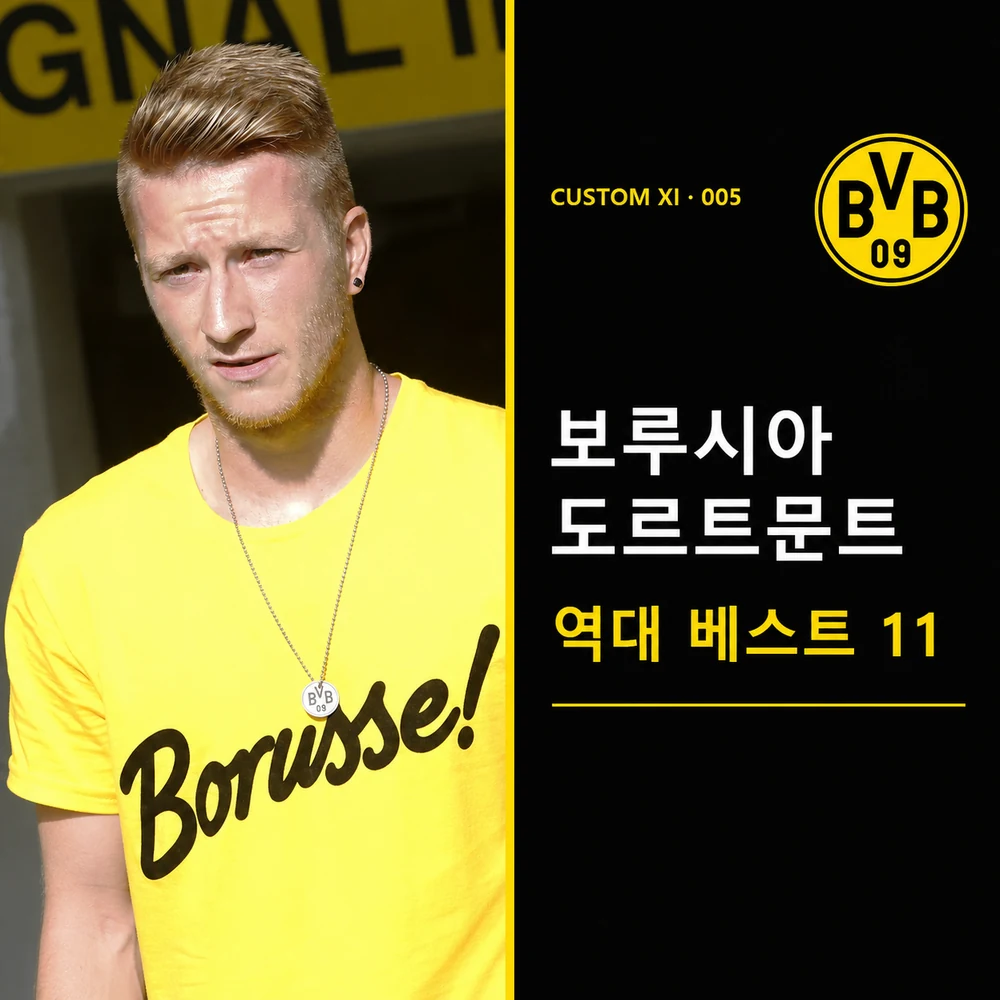
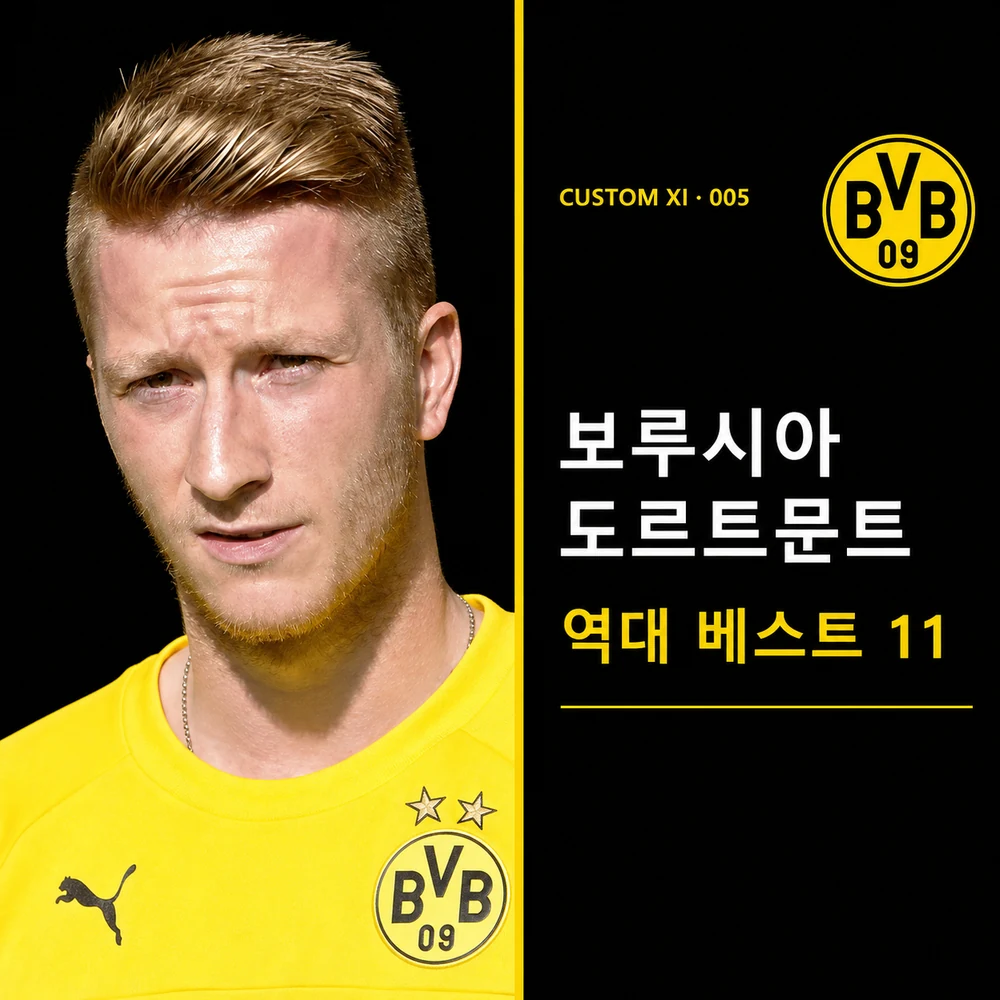
도르트문트 카드 로이스 사진 교체

diff --git a/src/content/articles/borussia-dortmund-all-time-best-xi.md b/src/content/articles/borussia-dortmund-all-time-best-xi.md
@@ -321,6 +321,7 @@ featured: true
 21. <span id="source-21"></span>[BVB: 이탈리아 경험자들의 귀환과 1997년 유럽 제패팀 구성](https://www.bvb.de/de/en/news/news-overview/news.html/eng/News/Overview/A-victory-against-all-the-odds-a-triumph-for-the-ages.html)
 22. <span id="source-22"></span>[BVB: 마르코 로이스의 귀환, 주장 경력과 2019년 독일 올해의 선수](https://www.bvb.de/de/en/news/news-overview/news.html/eng/News/Overview/BVB-and-Reus-do-not-extend-contract.html)
 23. <span id="source-23"></span>[BVB: 1997년 UEFA 챔피언스 리그 결승 선발과 주장 초르크의 시상식](https://www.bvb.de/de/de/der-bvb/die-bvb-historie/historische-momente/bvb-champions-league-1997.html)
+24. [정사각 목록 카드의 2015년 마르코 로이스 사진: Tim Reckmann, CC BY 2.0](https://commons.wikimedia.org/wiki/File:Marco_Reus_%2816204330530%29_%28cropped%29.jpg)
 
 ### 이 글이 만들어진 방식
 
@@ -328,7 +329,9 @@ featured: true
 
 선수별 세로 편집물에는 인물 선정, 사진 탐색, 기록 조사, 원어·별칭 표기, 검정·노랑·금색의 색채 설계, 정보 위계, 프레임과 배경, 수상·우승 내역의 배열이 함께 들어 있다. 표제·포메이션·2군·3군 명단 또한 한 세계를 전제로 설계한 연속 시각물이다. 이 기존 편집물은 모두 박성호(삥이)가 Adobe Photoshop에서 한 장씩 직접 제작했으며, 생성형 AI를 사용하지 않았다. 이번 사이트 개정은 원본을 축소 카드로 분해하지 않고 이미지 속 기록까지 읽을 수 있는 폭으로 보존했다.
 
-사이트용 대표 썸네일 역시 생성형 AI를 쓰지 않았다. Tim Reckmann의 로이스 사진(CC BY-SA 3.0), Marvin Ronsdorf의 경기장 사진(CC0 1.0), 운영자가 제공한 BVB 문장을 박성호(삥이)·삥이FC가 직접 크롭·색보정·합성하고 타이포그래피를 설계했다. CC BY-SA 원본을 바탕으로 만든 썸네일은 같은 CC BY-SA 3.0 조건으로 이용할 수 있으며, 저자·원문·라이선스 표시를 유지해야 한다.
+사이트용 16:9 대표 썸네일은 생성형 AI를 쓰지 않았다. Tim Reckmann의 2014년 로이스 사진(CC BY-SA 3.0), Marvin Ronsdorf의 경기장 사진(CC0 1.0), 운영자가 제공한 BVB 문장을 박성호(삥이)·삥이FC가 직접 크롭·색보정·합성하고 타이포그래피를 설계했다. CC BY-SA 원본을 바탕으로 만든 이 대표 이미지는 같은 CC BY-SA 3.0 조건으로 이용할 수 있으며, 저자·원문·라이선스 표시를 유지해야 한다.
+
+카테고리 목록의 1:1 카드는 Tim Reckmann이 2015년에 촬영한 로이스 사진(CC BY 2.0)을 실제 인물 원본으로 삼아 얼굴과 상반신에 초점을 맞추고, Codex 내장 이미지 생성 편집으로 검정·노랑 정보판과 결합했다. 사진 속 인물을 다른 얼굴로 대체하려는 목적이 아니라 정사각 목록에서 로이스의 얼굴과 도르트문트 유니폼이 선명하게 읽히도록 재구성한 편집물이다. 사진 저자·원문·라이선스와 생성형 편집 사실을 함께 밝힌다.
 
 ### 이미지와 권리에 관한 편집 원칙
 

diff --git a/HANDOFF.md b/HANDOFF.md
@@ -3,6 +3,7 @@
 - 아카이브·검색 결과·홈 상단의 편집 위계는 유지하고, 일반 카테고리 목록과 페이지네이션 목록을 공통 1:1 카드 피드로 통일했다. 모바일 2열, 태블릿 3열, PC 4열이며 정사각 이미지 아래에 카테고리·발행일·두 줄 제목을 둔다.
 - 일반 사진은 기존 `coverImage`를 카드 안에서 자연스럽게 크롭한다. 별도 정사각 편집물이 필요한 글만 선택형 `cardImage`를 사용하므로 상세 글의 대표 이미지와 OG 이미지는 기존 16:9 원본을 그대로 유지한다.
 - 도르트문트와 레버쿠젠은 Codex 내장 이미지 생성 편집으로 기존 합성 썸네일의 인물·문장·색상·정확한 제목을 보존해 1000×1000 WebP 카드 이미지를 별도로 제작했다. 목록에는 정사각 카드를, 상세 글에는 기존 1200×675 대표 이미지를 쓴다.
+- 도르트문트 정사각 카드는 운영자 피드백에 따라 2014년 시즌 개막식 사진 대신 Tim Reckmann의 2015년 경기 사진(CC BY 2.0)으로 교체했다. 실제 사진의 얼굴·상반신을 크게 잡고 오른쪽 검정 정보판을 유지했으며, 글 하단에 새 사진 출처와 생성형 편집 사실을 별도로 명시했다.
 
 ---
 
